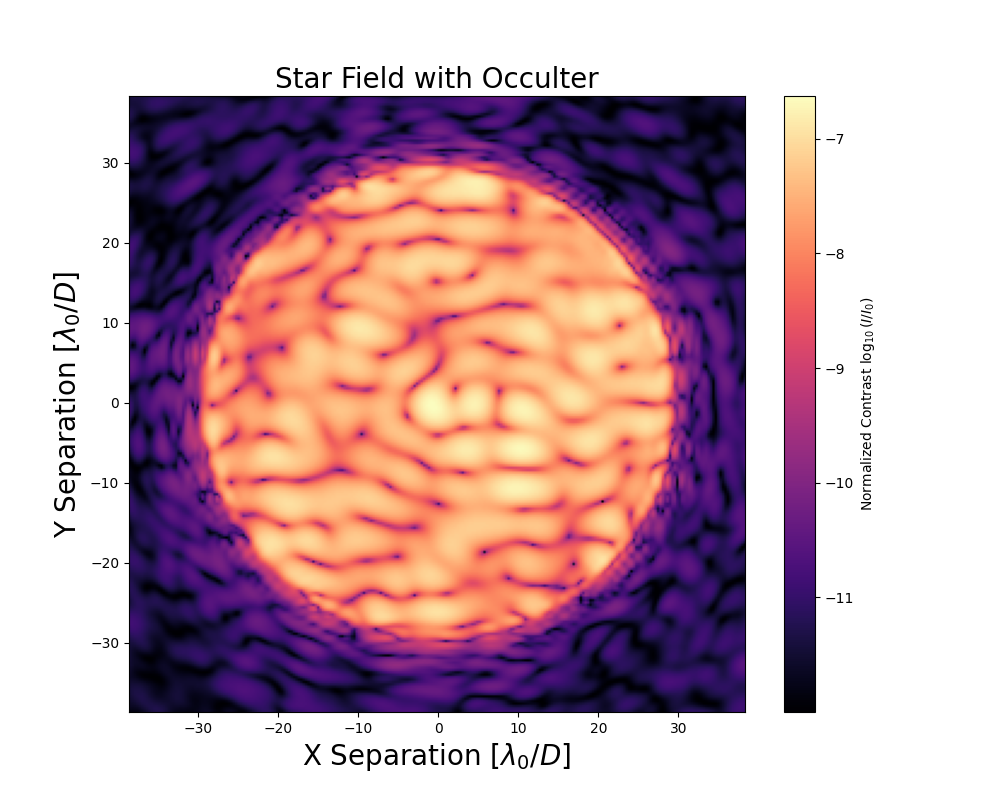
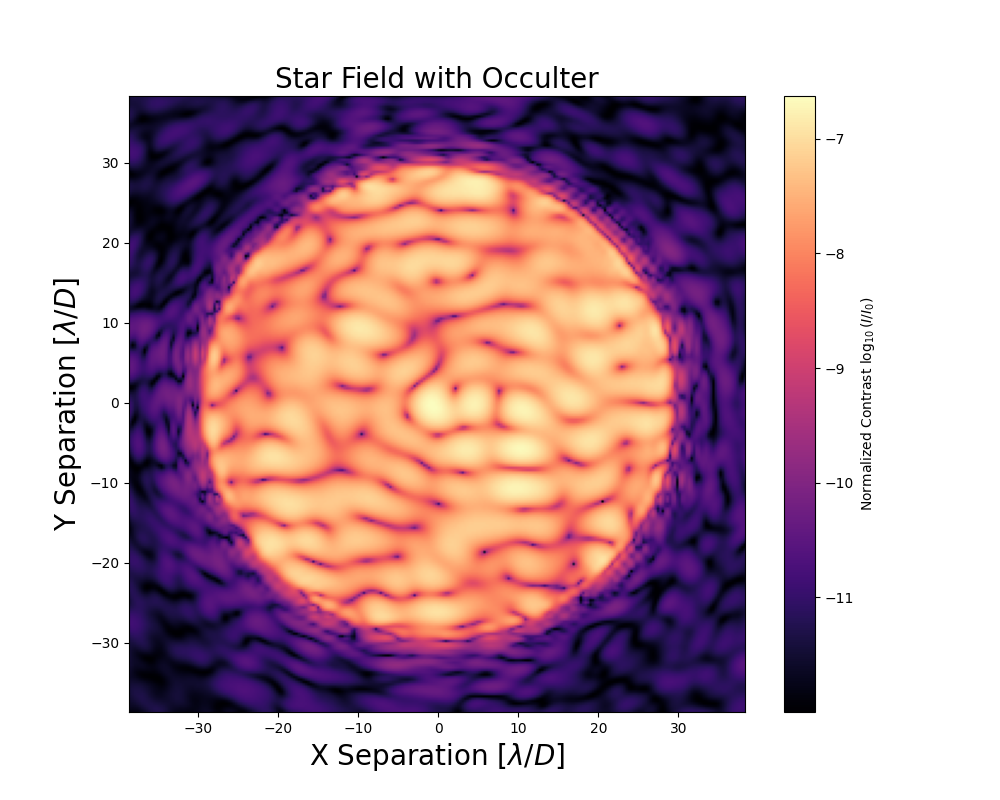
modified plot labels

Changed region(s): [[0.031, 0.3438, 0.093, 0.6562], [0.31, 0.9062, 0.589, 0.9688]]

diff --git a/hlc_band_1_test/main_all_plane.py b/hlc_band_1_test/main_all_plane.py
@@ -43,7 +43,6 @@ if not os.path.exists(fpm_real):
     fpm_real = os.path.join(data_root, "hlc_fpm_trans_0.57600000um_real.fits")
     fpm_imag = os.path.join(data_root, "hlc_fpm_trans_0.57600000um_imag.fits")
 
-
 unocculted_field, unocculted_sampling, unocculted_wavefront = hlc(
     wavelength,
     diam_telescope,
@@ -82,13 +81,6 @@ final_field, final_sampling, final_wavefront = hlc(
     polaxis=polaxis,
 )
 
-
-
-
-
-
-
-
 unocculted_psf = np.abs(unocculted_field) ** 2
 final_psf = np.abs(final_field) ** 2
 max_unocculted = np.max(unocculted_psf)
@@ -119,7 +111,7 @@ print(f"Peak intensity ratio (occulted / unocculted): {psf_peak_ratio:.2e}")
 plt.figure(figsize=(10, 8))
 plt.imshow(np.log10(final_psf / max_unocculted + 1e-12), origin="lower", extent=extent_bounds, cmap='magma')
 plt.colorbar(label='Normalized Contrast $\\log_{10}(I/I_0)$')
-plt.xlabel('X Separation [$\\lambda_0/D$]', fontsize=20)
-plt.ylabel('Y Separation [$\\lambda_0/D$]', fontsize=20)
+plt.xlabel('X Separation [$\\lambda/D$]', fontsize=20)
+plt.ylabel('Y Separation [$\\lambda/D$]', fontsize=20)
 plt.title("Star Field with Occulter", fontsize=20)
 plt.show()
